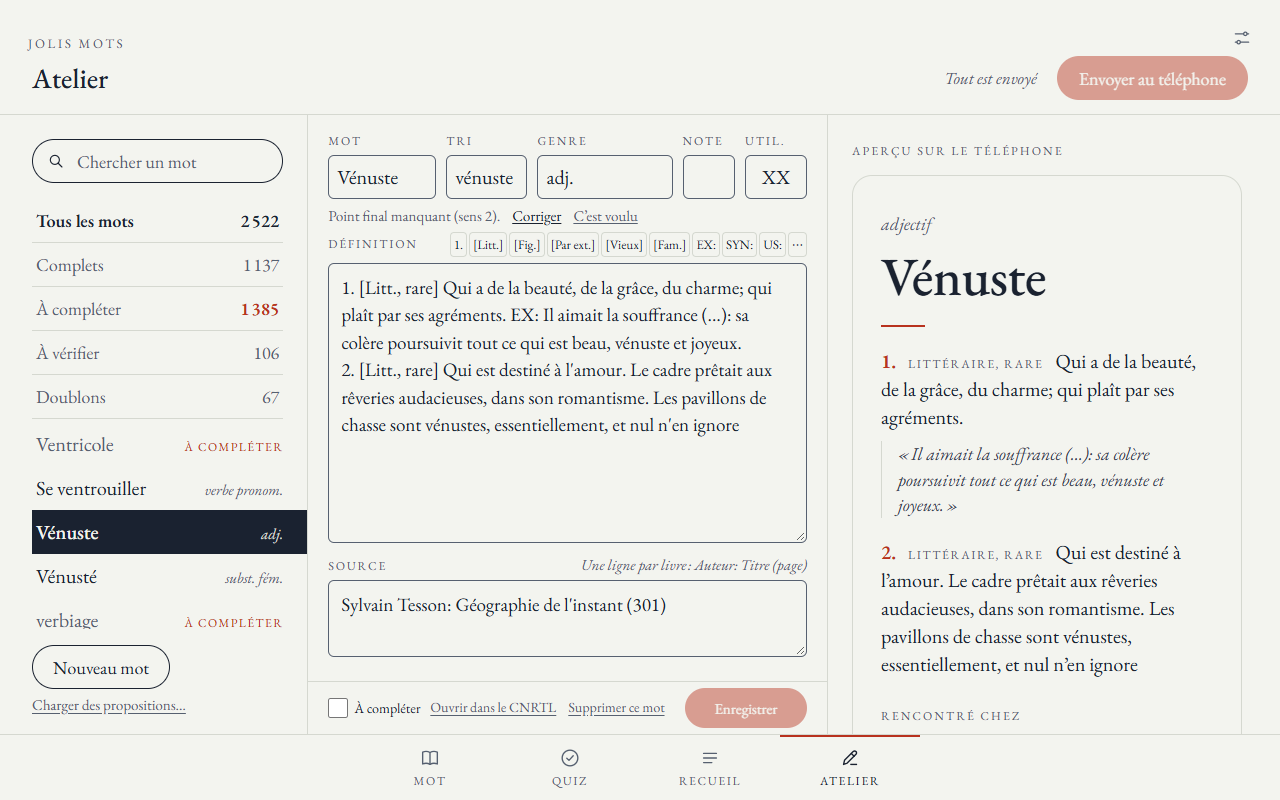
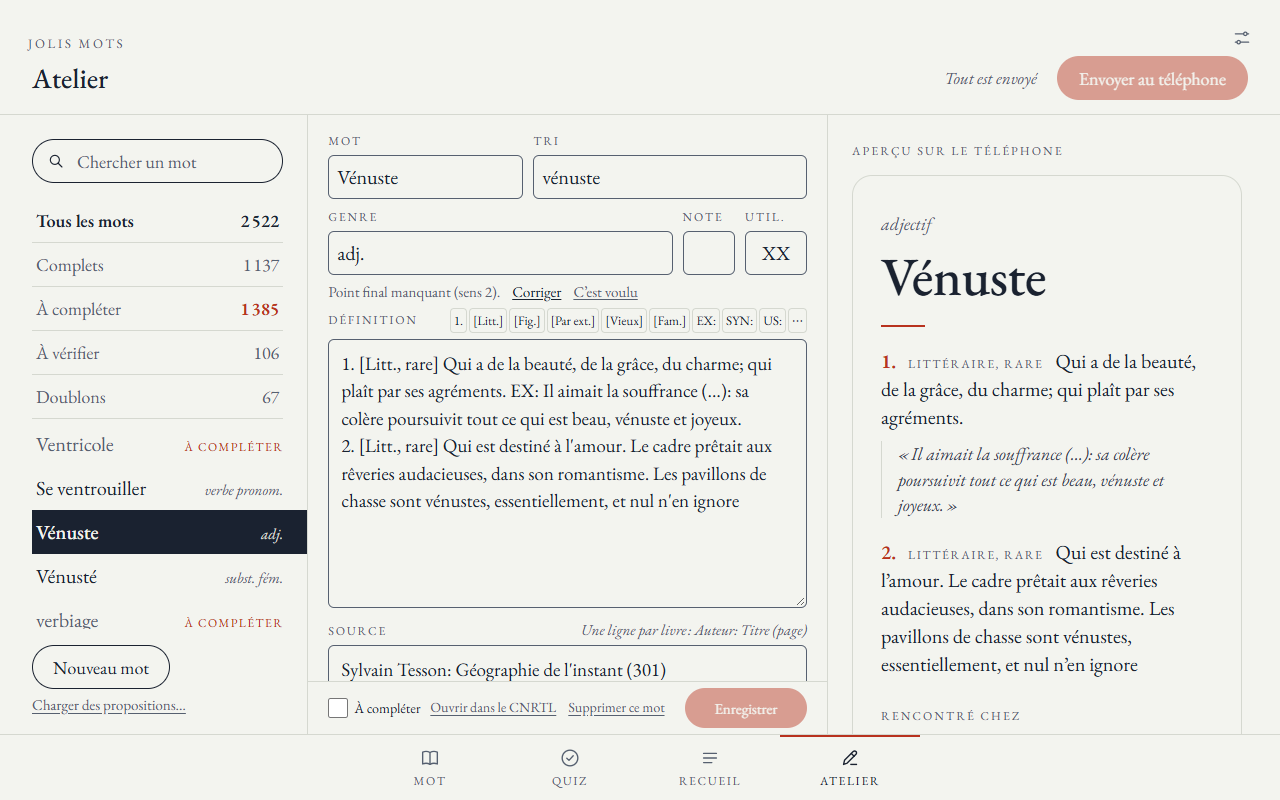
Captures : l'atelier avec Genre, Note et Util. sur la deuxième ligne

diff --git a/PROJET.md b/PROJET.md
@@ -381,7 +381,7 @@ Toutes se lancent depuis la racine.
 - Avant les photos, il vérifie que les filtres du Recueil tiennent sur une ligne d'un écran de 411 px de large, au départ puis avec l'autre auteur au nom le plus long choisi, et s'arrête sinon.
 - Edge sans fenêtre ne descend pas sous 500 px de large : le script émule donc un écran de 411 × 890 px, la largeur du téléphone de Philippe, et impose le mode clair, car les pastilles « Comme le système » des Réglages suivent le mode sombre de la machine.
 - Les adresses fixent le mot (`?mot=baguenauder`, `?mot=ceruleen` pour `palettes.png`) et la palette (`?palette=papier`). `quiz.png` montre le choix du quiz ; `question.png` le saute (`?quiz=vus`) et interroge sur « Baguenauder », le seul mot vu jusque-là. Les trois mauvaises réponses sont tirées au hasard : elles changent d'une exécution à l'autre.
-- `atelier.png` est prise à 1280 × 800 avec le pont de démonstration (`?pont=demo#atelier`). Aucune adresse n'ouvre un mot dans l'atelier : le script touche la ligne « Vénuste » de la liste, puis vérifie que la fiche s'est ouverte. On y voit la première ligne avec Note et Util., la remarque du vérificateur sur le point final du sens 2 et la barre de balises.
+- `atelier.png` est prise à 1280 × 800 avec le pont de démonstration (`?pont=demo#atelier`). Aucune adresse n'ouvre un mot dans l'atelier : le script touche la ligne « Vénuste » de la liste, puis vérifie que la fiche s'est ouverte. On y voit Mot et Tri sur la première ligne, Genre, Note et Util. sur la deuxième (la fiche y est étroite), la remarque du vérificateur sur le point final du sens 2 et la barre de balises.
 
 ## Versions et publication
 
